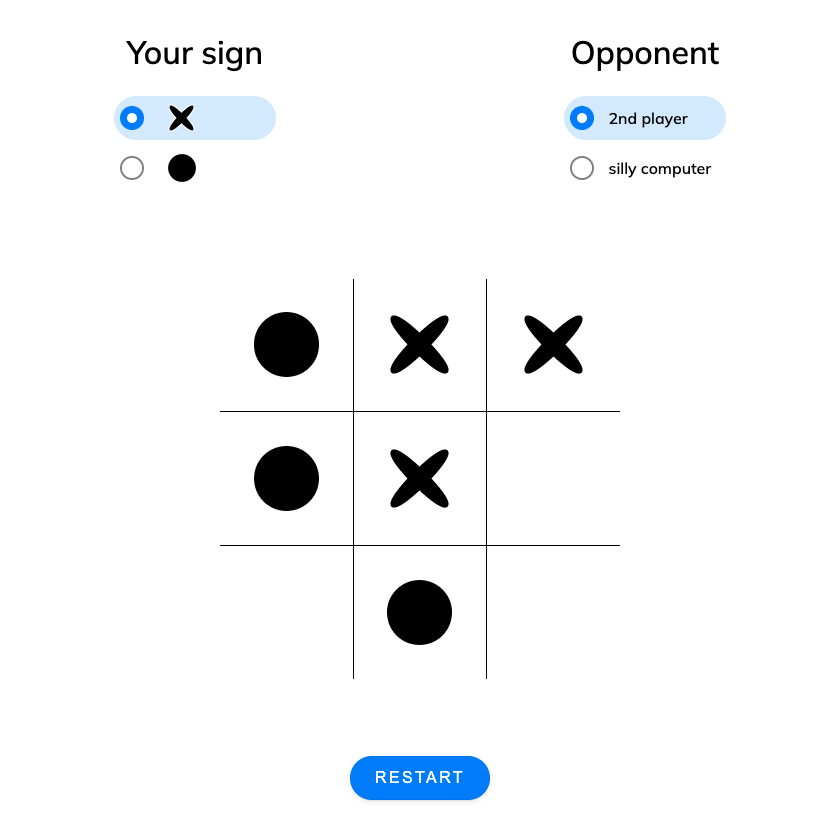
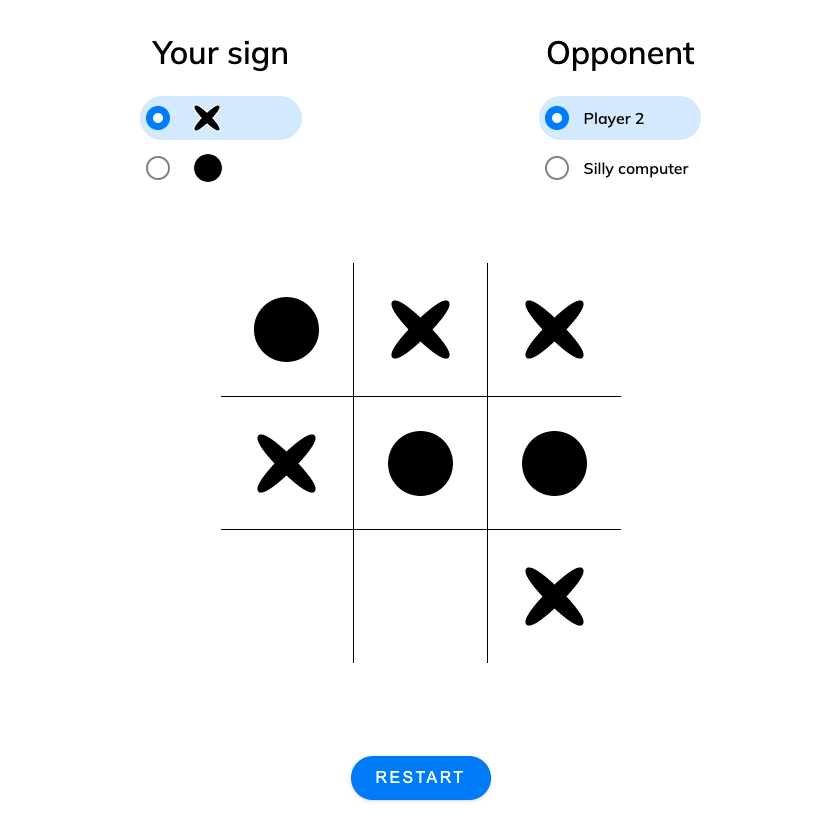
Update opponent names

diff --git a/index.html b/index.html
@@ -38,11 +38,11 @@
           <form>
             <label>
               <input id="2-players" type="radio" name="radio" checked/>
-              <span>&nbsp 2nd player</span>
+              <span>&nbsp Player 2</span>
             </label>
             <label>
               <input id="computer" type="radio" name="radio"/>
-              <span>&nbsp silly computer</span>
+              <span>&nbsp Silly computer</span>
             </label>
           </form>
         </div>
